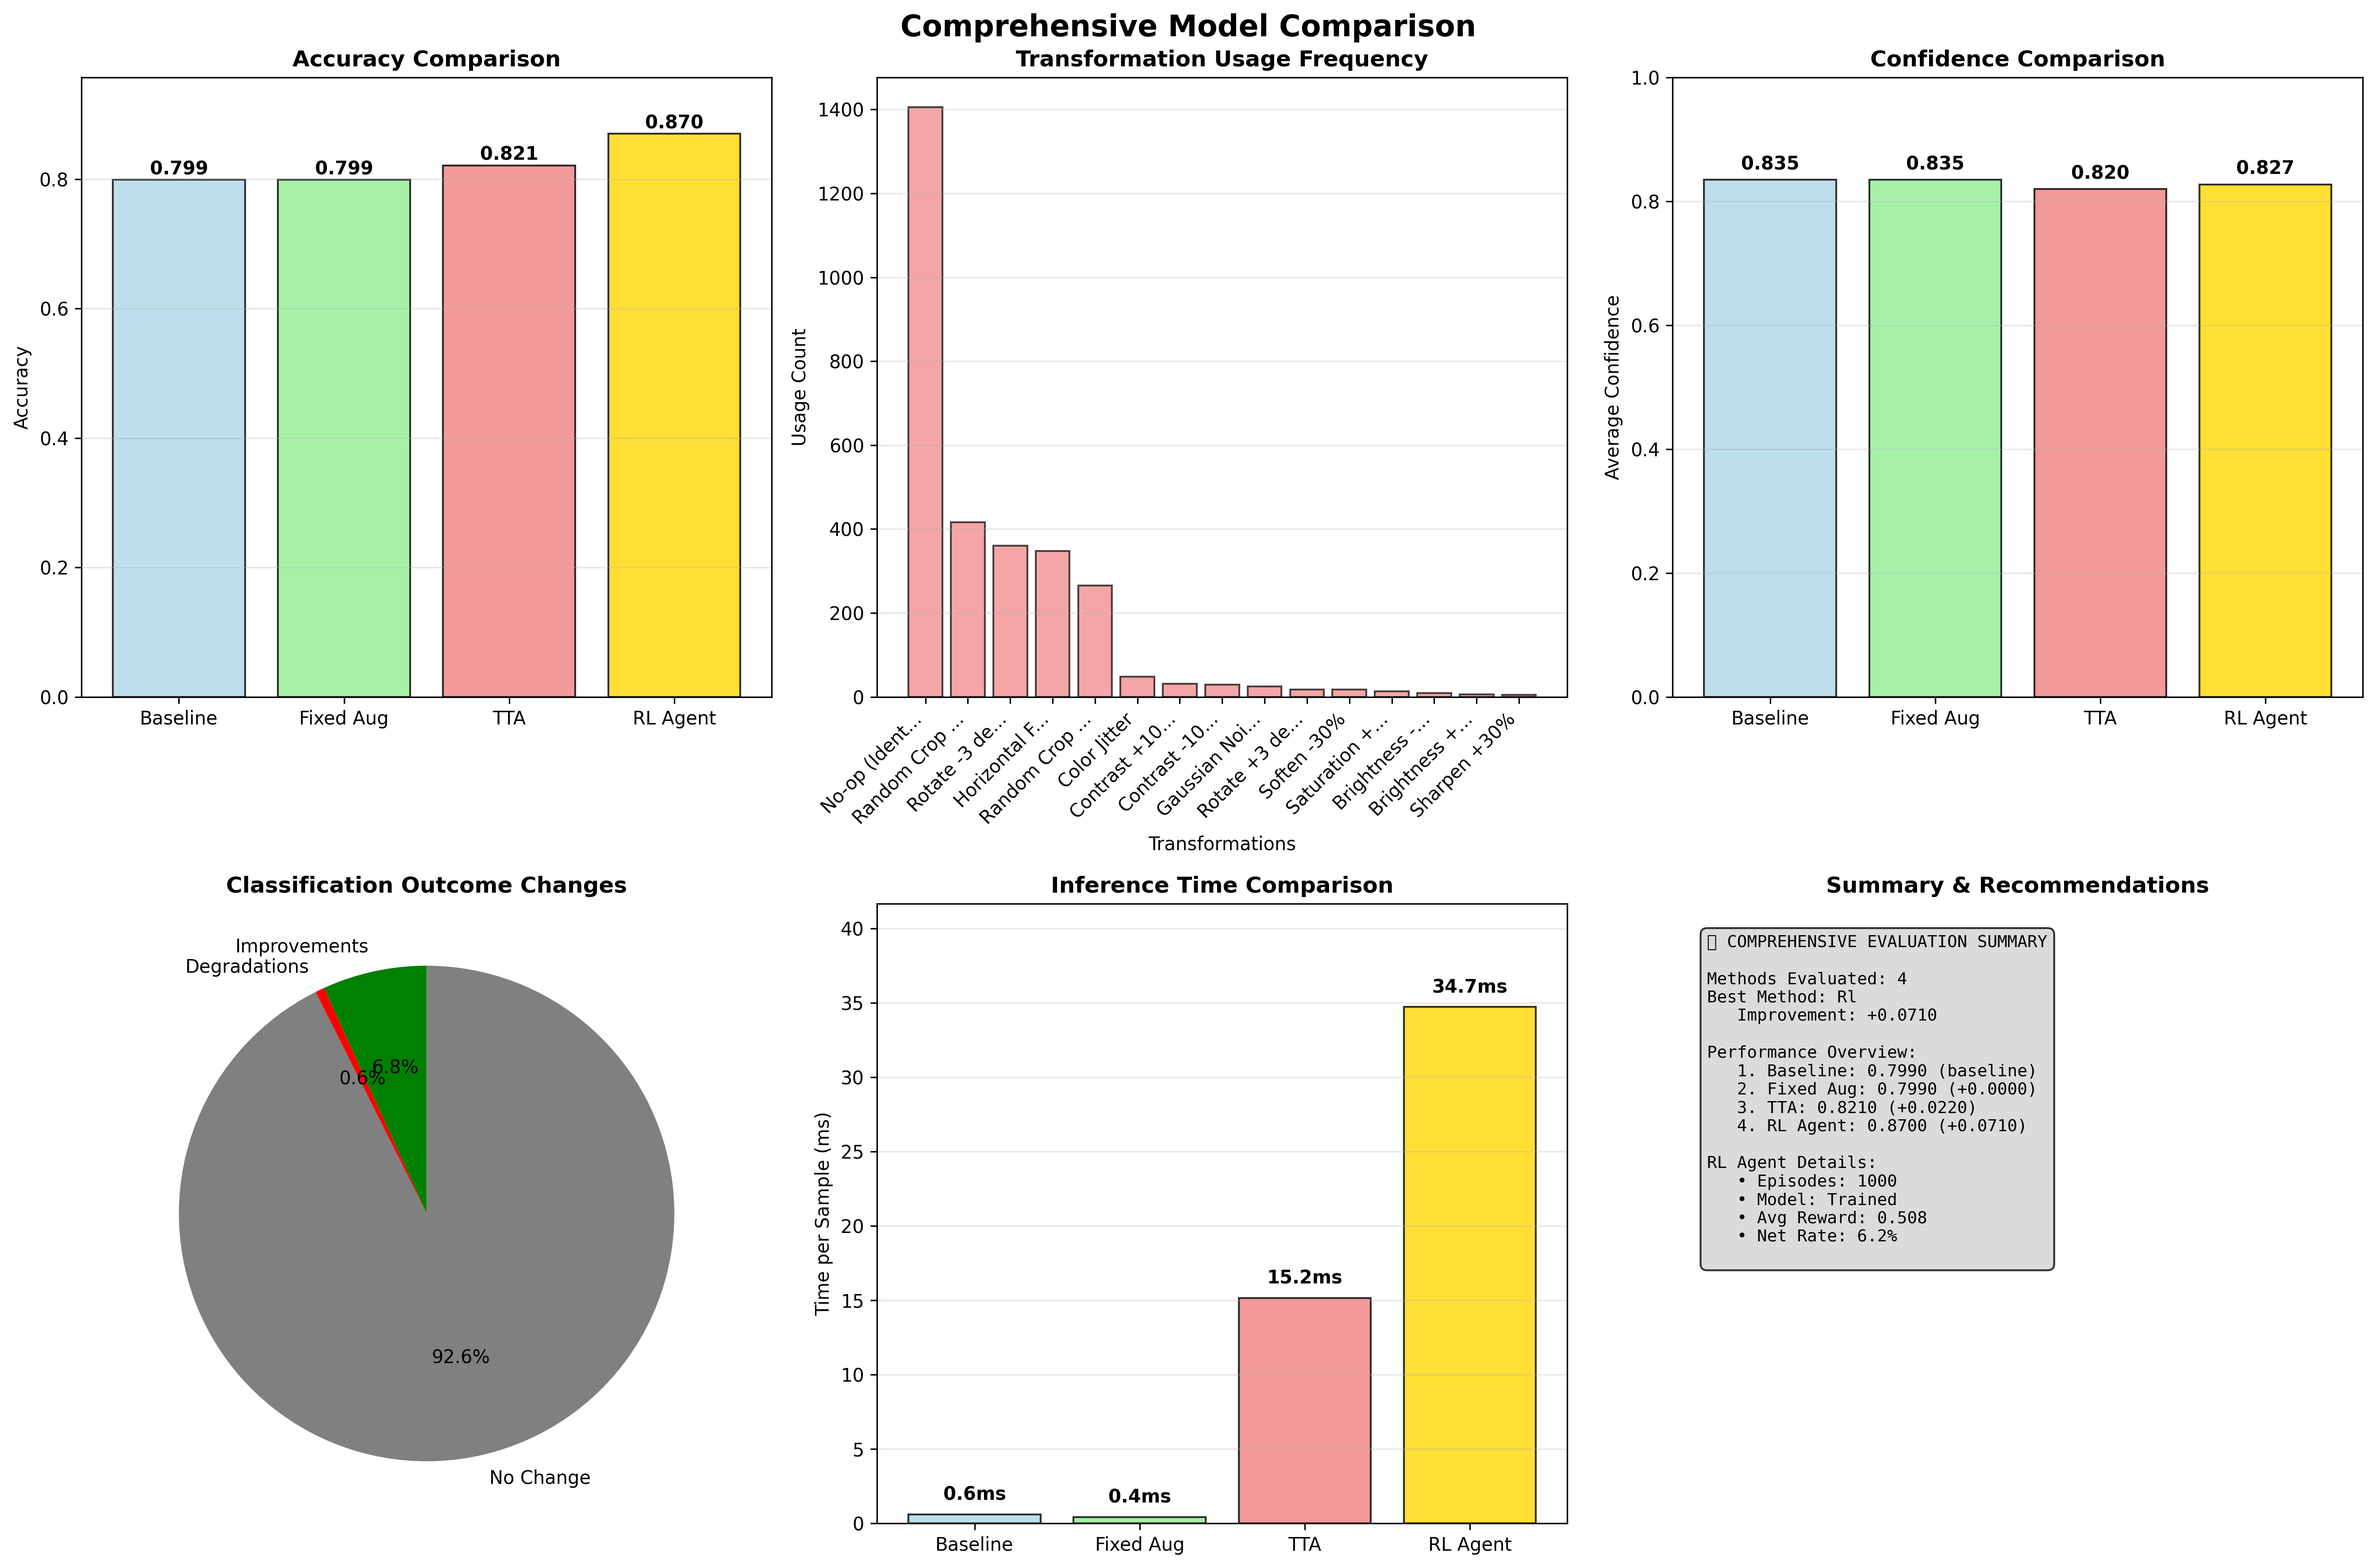
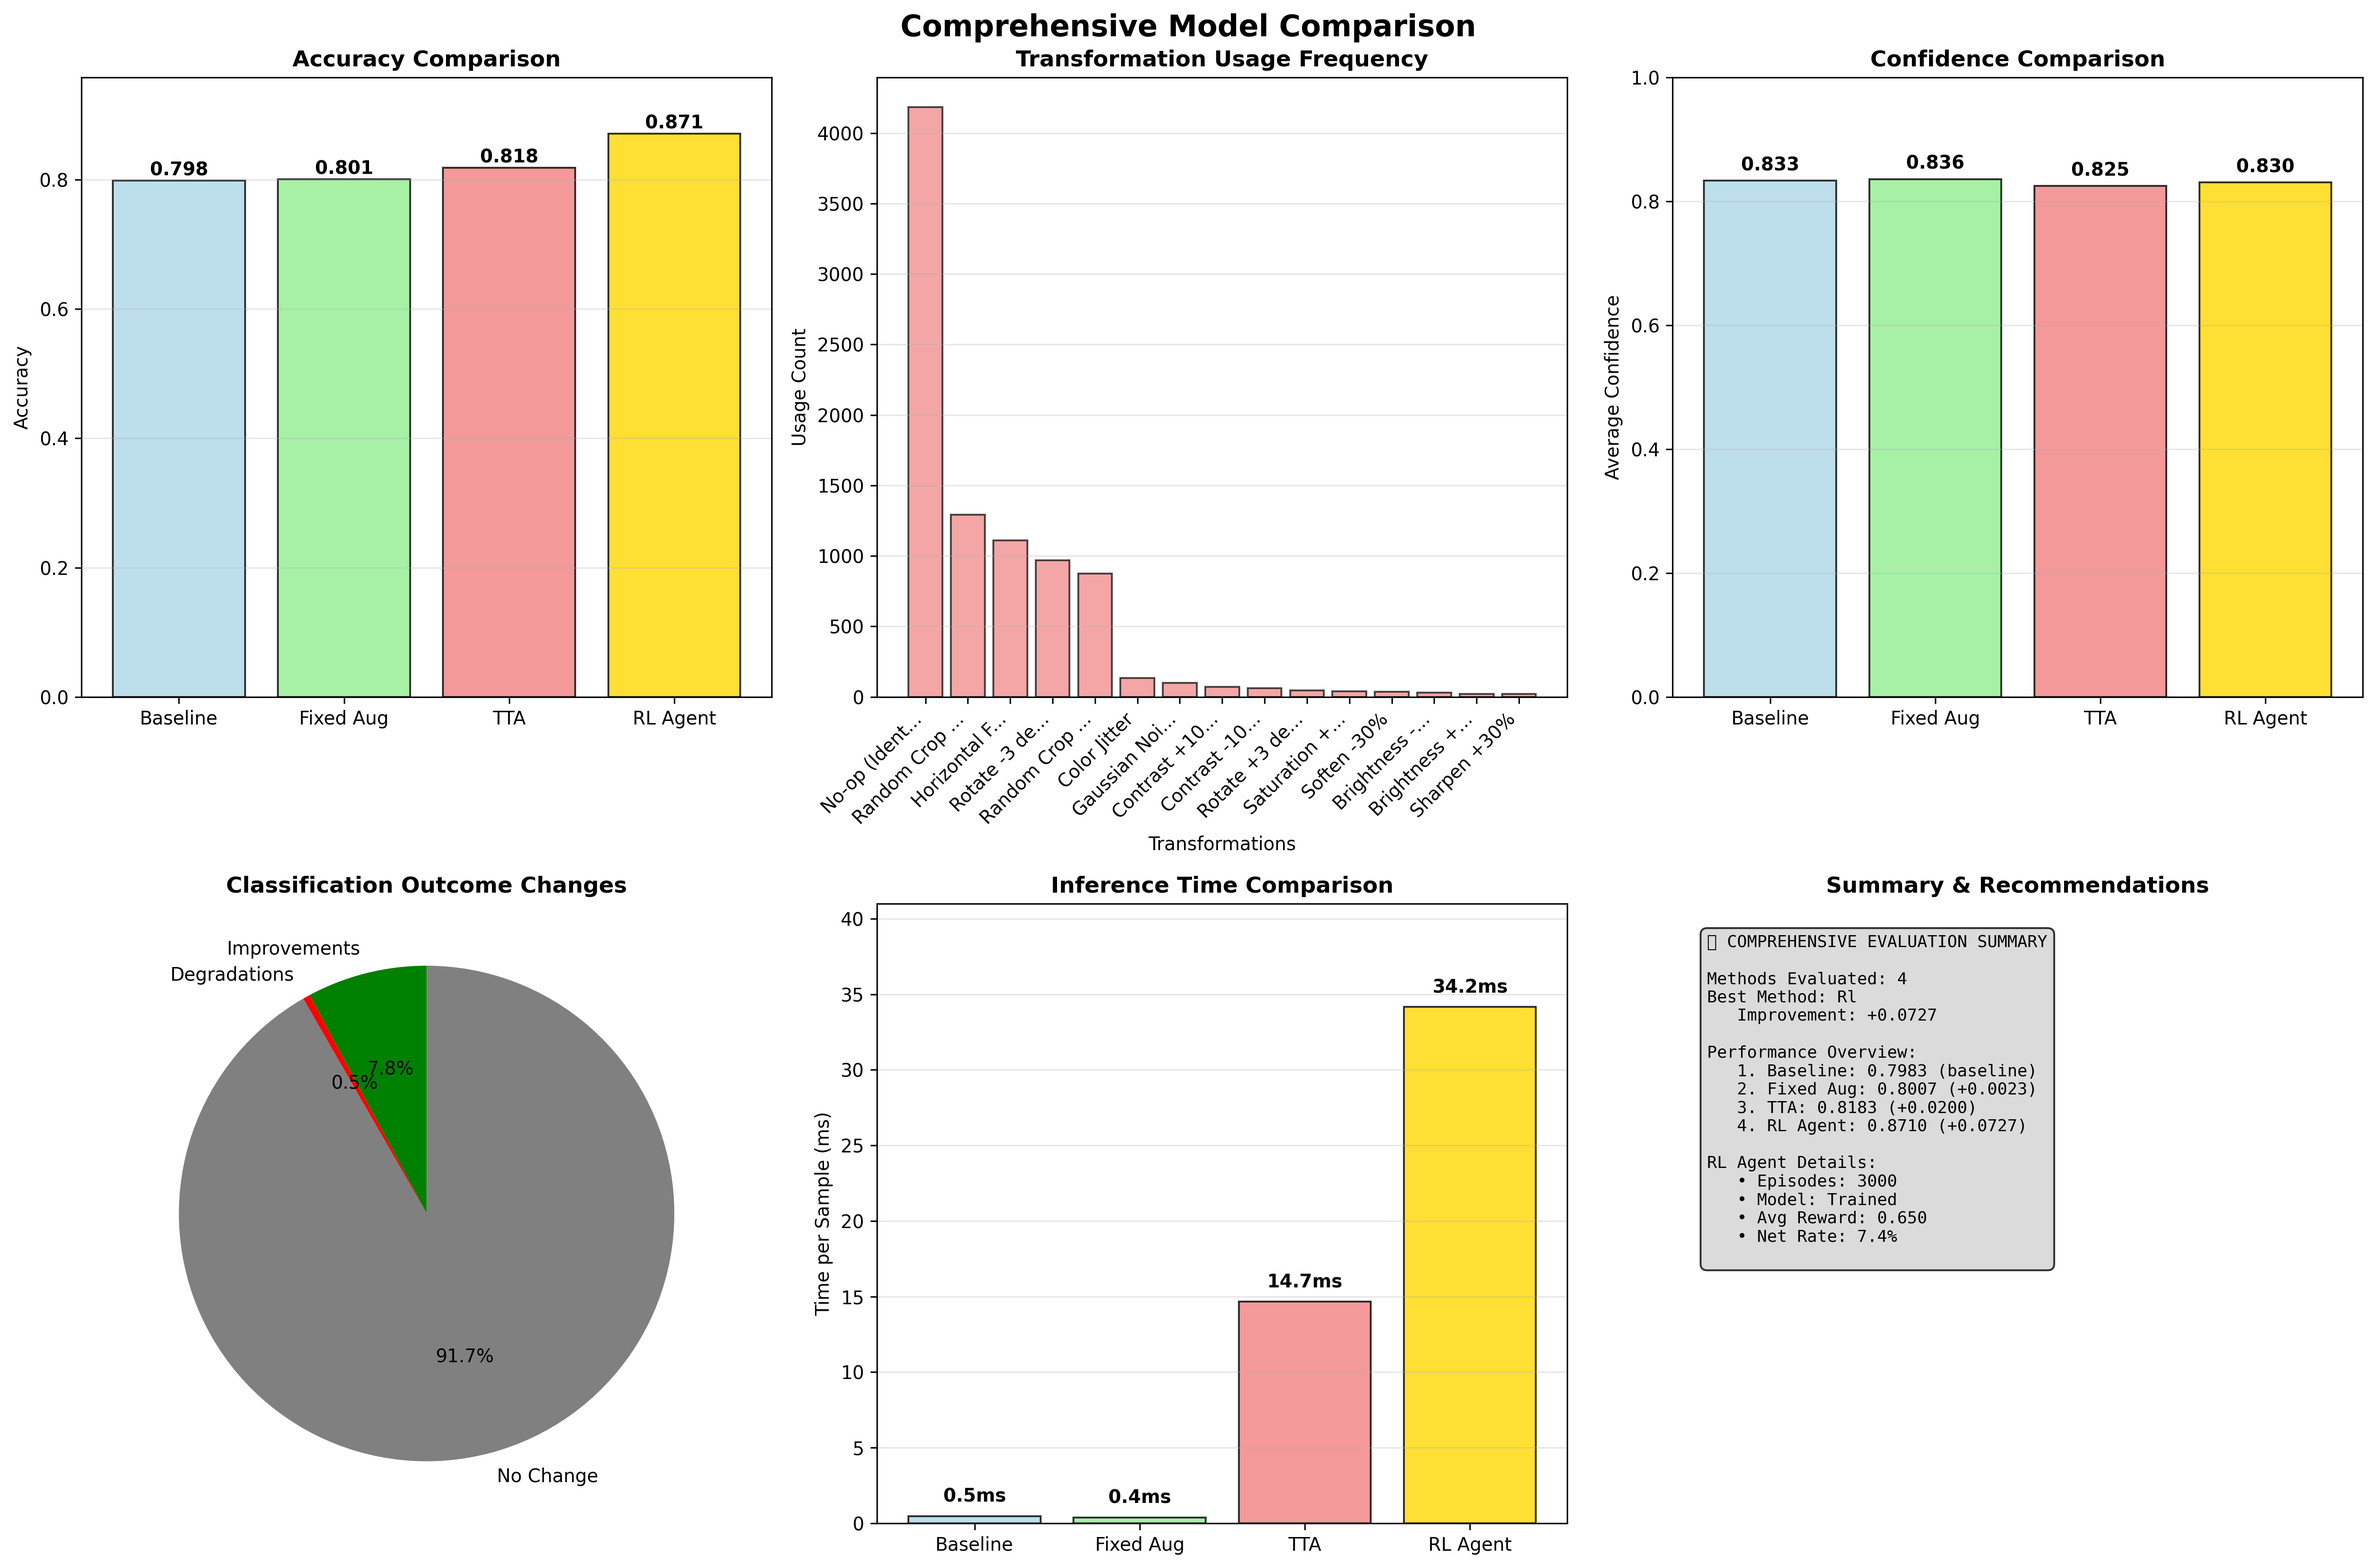
Remove seed from evaluation

diff --git a/evaluation/core/data_utils.py b/evaluation/core/data_utils.py
@@ -105,21 +105,18 @@ def get_cifar10_test_loader(data_root: str = DEFAULT_DATA_ROOT,
 
 
 def create_sample_subset(dataset: torchvision.datasets.CIFAR10,
-                        num_samples: int,
-                        random_seed: Optional[int] = None) -> Subset:
+                        num_samples: int) -> Subset:  # Removed random_seed parameter
     """
     Crea un subset casuale del dataset.
     
     Args:
         dataset: Dataset originale
         num_samples: Numero di campioni da selezionare
-        random_seed: Seed per riproducibilità
     
     Returns:
         Subset del dataset
     """
-    if random_seed is not None:
-        np.random.seed(random_seed)
+    # Removed: if random_seed is not None: np.random.seed(random_seed)
     
     total_samples = len(dataset)
     if num_samples > total_samples:
@@ -131,6 +128,7 @@ def create_sample_subset(dataset: torchvision.datasets.CIFAR10,
     
     print(f"Created subset with {len(subset)} samples from {total_samples}")
     return subset
+
 
 
 def get_cifar10_class_names() -> List[str]:
@@ -221,8 +219,7 @@ def validate_dataset_compatibility(dataset: torchvision.datasets.CIFAR10) -> Non
 def create_evaluation_dataloader(data_root: str = DEFAULT_DATA_ROOT,
                                batch_size: int = 64,
                                num_samples: Optional[int] = None,
-                               random_seed: Optional[int] = 42,
-                               device_optimized: bool = True) -> Tuple[DataLoader, dict]:
+                               device_optimized: bool = True) -> Tuple[DataLoader, dict]:  # Removed random_seed parameter
     """
     Crea un DataLoader ottimizzato per valutazione.
     
@@ -230,18 +227,17 @@ def create_evaluation_dataloader(data_root: str = DEFAULT_DATA_ROOT,
         data_root: Directory root per i dati
         batch_size: Dimensione del batch
         num_samples: Numero di campioni (None per tutti)
-        random_seed: Seed per riproducibilità
         device_optimized: Se ottimizzare per GPU
     
     Returns:
         Tupla (DataLoader, info_dict)
     """
-    # Carica dataset completo
+    # Load dataset completo
     dataset = get_cifar10_test_dataset(data_root=data_root)
     
     # Crea subset se richiesto
     if num_samples is not None:
-        dataset = create_sample_subset(dataset, num_samples, random_seed)
+        dataset = create_sample_subset(dataset, num_samples)  # Removed random_seed argument
     
     # Analizza distribuzione
     distribution_info = analyze_dataset_distribution(dataset)
@@ -277,7 +273,6 @@ def create_evaluation_dataloader(data_root: str = DEFAULT_DATA_ROOT,
     print(f"  Pin memory: {pin_memory}")
     
     return dataloader, info
-
 
 def print_data_loading_summary(dataloader: DataLoader, info: dict) -> None:
     """

diff --git a/evaluation/methods/evaluate_baseline.py b/evaluation/methods/evaluate_baseline.py
@@ -25,26 +25,13 @@ def evaluate_baseline(classifier_model: torch.nn.Module,
                      return_details: bool = True) -> Dict[str, Any]:
     """
     Valuta le performance del classificatore baseline senza augmentation.
-    
-    Args:
-        classifier_model: Modello classificatore pre-trained
-        test_loader: DataLoader per i dati di test (if None, created from test_dataset)
-        test_dataset: Dataset di test (used if test_loader is None)
-        device: Device per computazione
-        num_samples: Number of samples to evaluate (None = all)
-        batch_size: Batch size if creating new loader
-        verbose: Se stampare informazioni dettagliate
-        return_details: Se restituire predizioni e label individuali
-    
-    Returns:
-        Dict con risultati della valutazione
     """
     # Create subset loader if num_samples specified
     if num_samples is not None and test_dataset is not None:
         from evaluation.core.data_utils import create_sample_subset
         from torch.utils.data import DataLoader
         
-        subset = create_sample_subset(test_dataset, num_samples, random_seed=42)
+        subset = create_sample_subset(test_dataset, num_samples)  # Removed random_seed=42
         test_loader = DataLoader(subset, batch_size=batch_size, shuffle=False, num_workers=0)
         
         if verbose:

diff --git a/evaluation/methods/evaluate_fixed_aug.py b/evaluation/methods/evaluate_fixed_aug.py
@@ -29,25 +29,13 @@ def evaluate_fixed_augmentation(classifier_model: torch.nn.Module,
                                verbose: bool = True) -> Dict[str, Any]:
     """
     Valuta il classificatore SOLO con fixed augmentation.
-    
-    Args:
-        classifier_model: Modello classificatore pre-trained
-        test_dataset: Dataset di test (senza trasformazioni)
-        augmentation_ids: Lista di ID delle trasformazioni da applicare
-        device: Device per computazione
-        num_samples: Number of samples to evaluate (None = all)
-        batch_size: Dimensione del batch
-        verbose: Se stampare informazioni dettagliate
-    
-    Returns:
-        Dict con risultati della valutazione fixed augmentation
     """
     validate_evaluation_inputs(classifier_model, device=device)
     
     # Create subset if num_samples specified
     if num_samples is not None:
         from evaluation.core.data_utils import create_sample_subset
-        test_dataset = create_sample_subset(test_dataset, num_samples, random_seed=42)
+        test_dataset = create_sample_subset(test_dataset, num_samples)  # Removed random_seed=42
         
         if verbose:
             print(f" Created subset with {num_samples} samples")

diff --git a/evaluation/comparison/visualization_manager.py b/evaluation/comparison/visualization_manager.py
@@ -415,7 +415,7 @@ class VisualizationManager:
         total_degradations = rl_results.get('degradations', 0)
         
         # Simulate realistic class-wise distribution
-        np.random.seed(42)  # For reproducibility
+        # Removed: np.random.seed(42)  # For reproducibility
         
         # Some classes are harder to improve than others
         class_difficulty = [0.8, 1.2, 1.5, 1.3, 1.1, 1.4, 0.9, 1.0, 0.7, 1.1]
